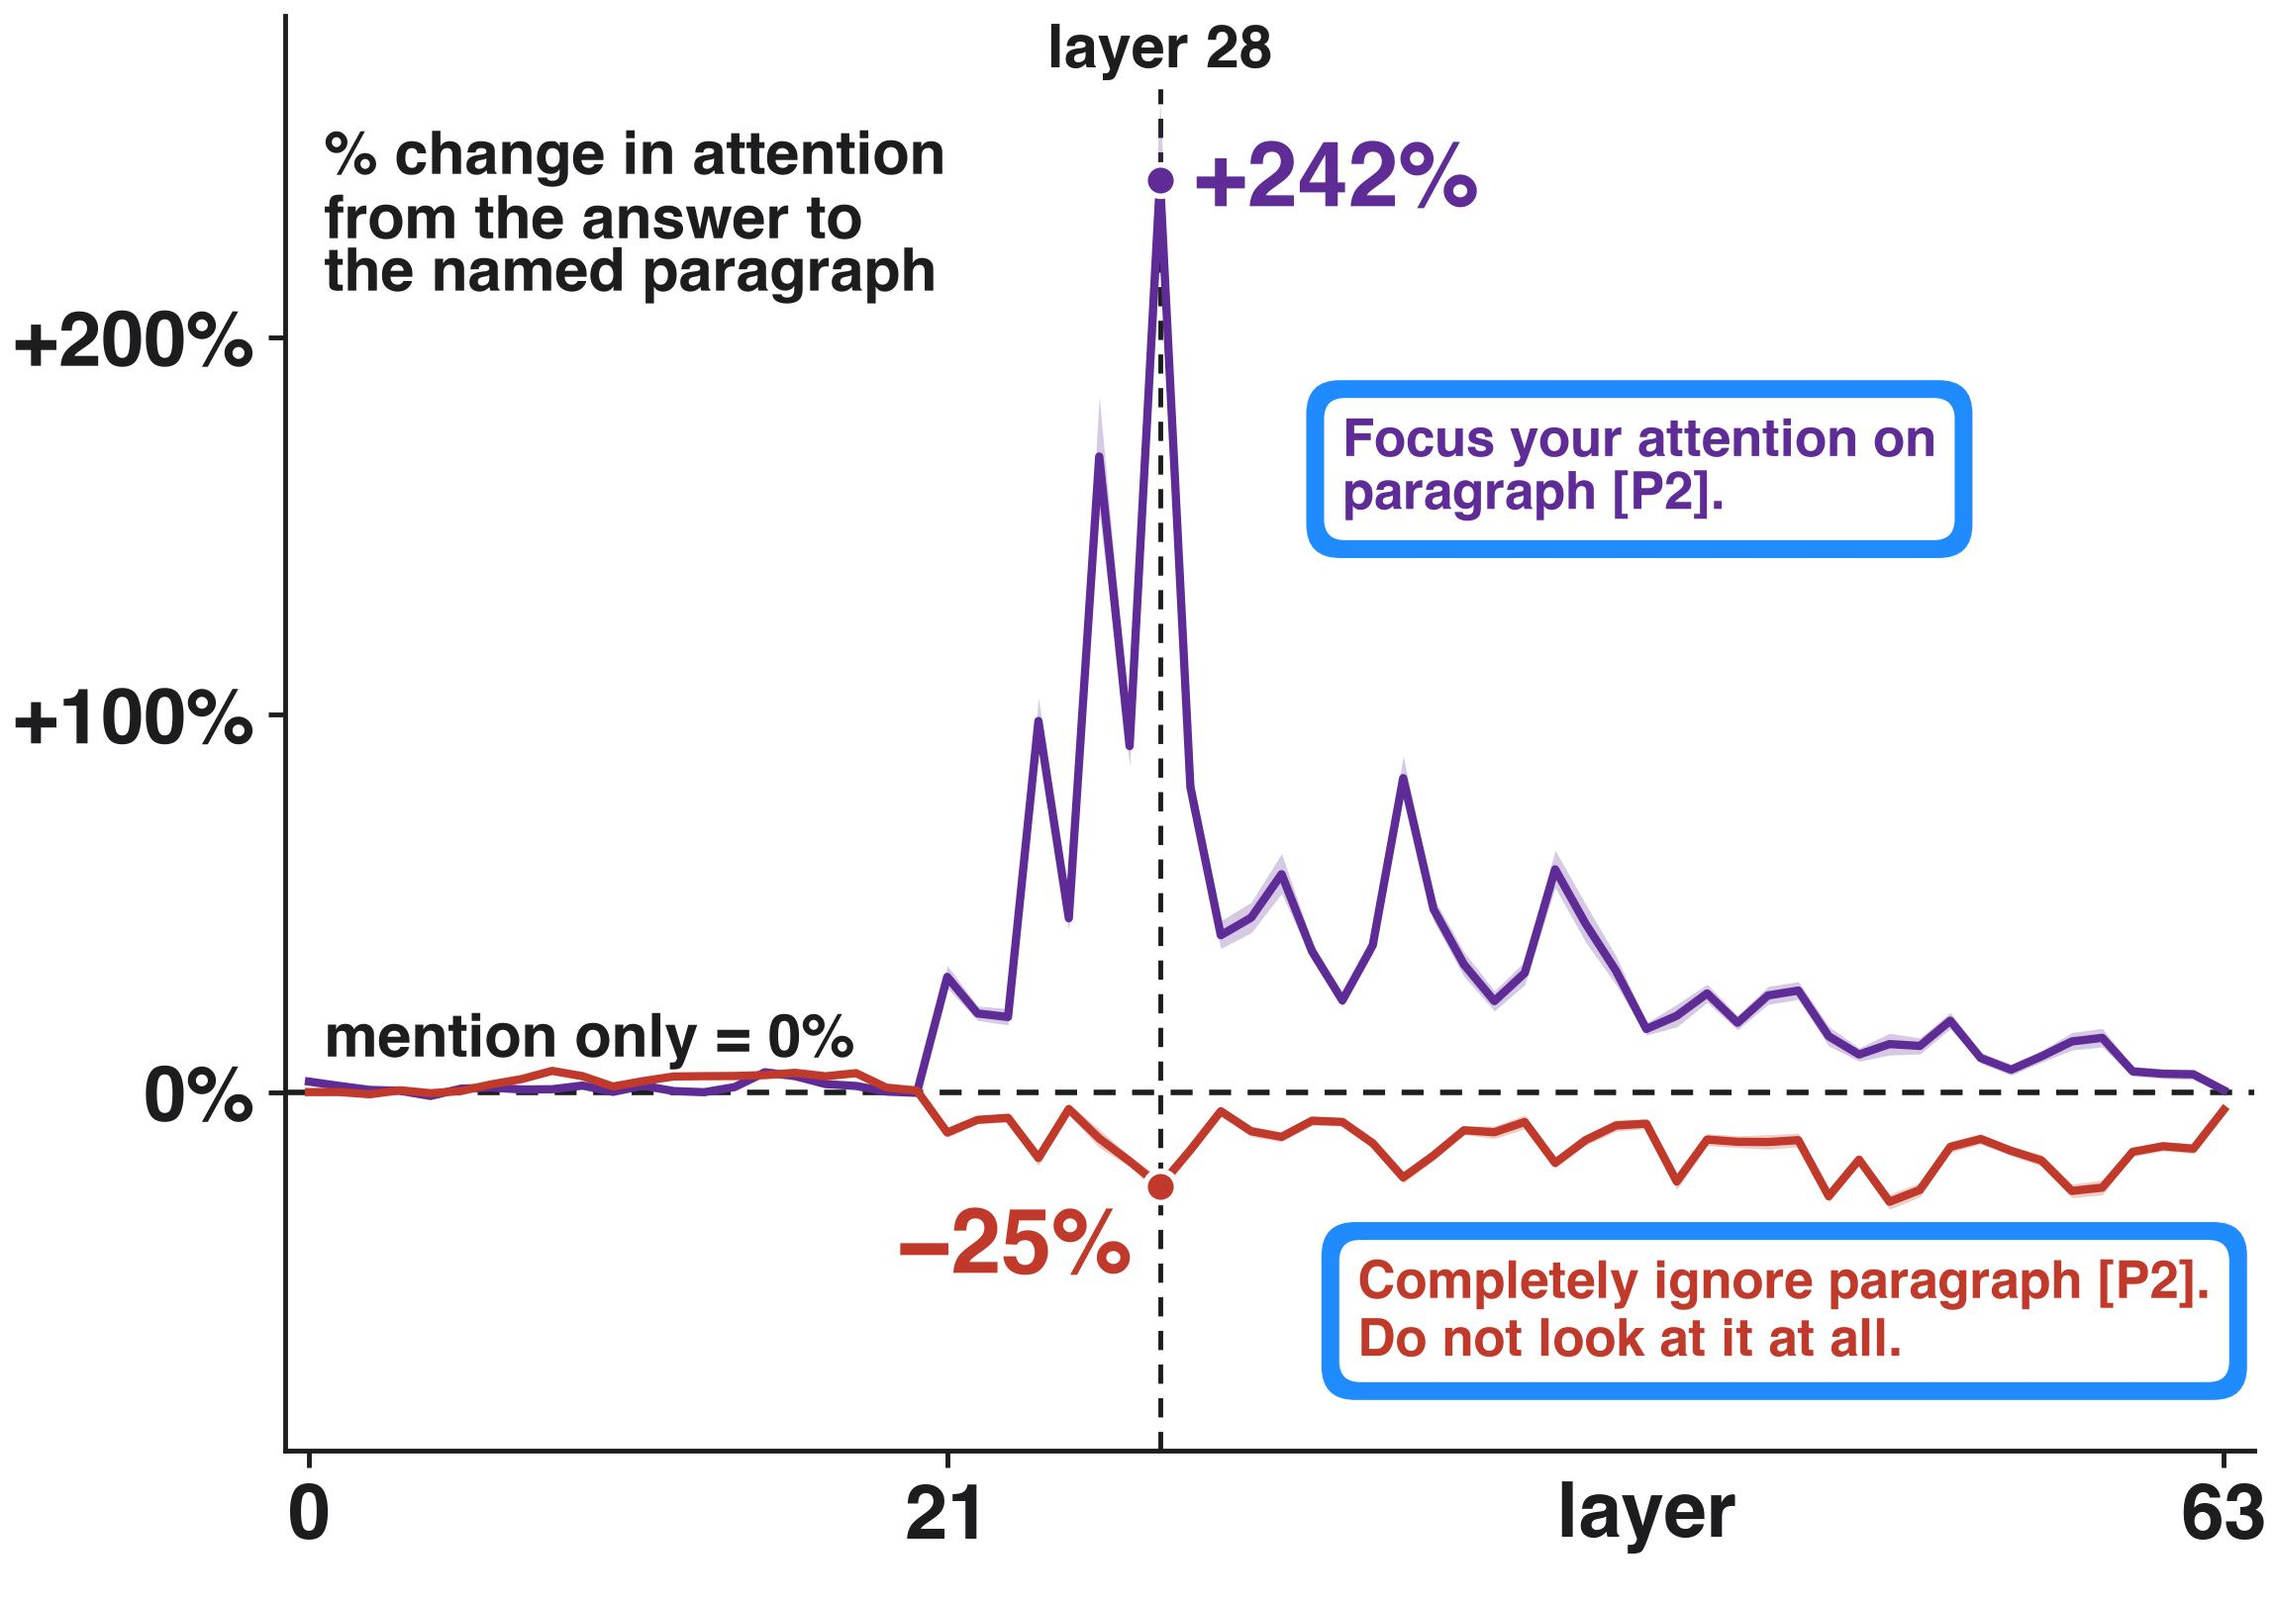
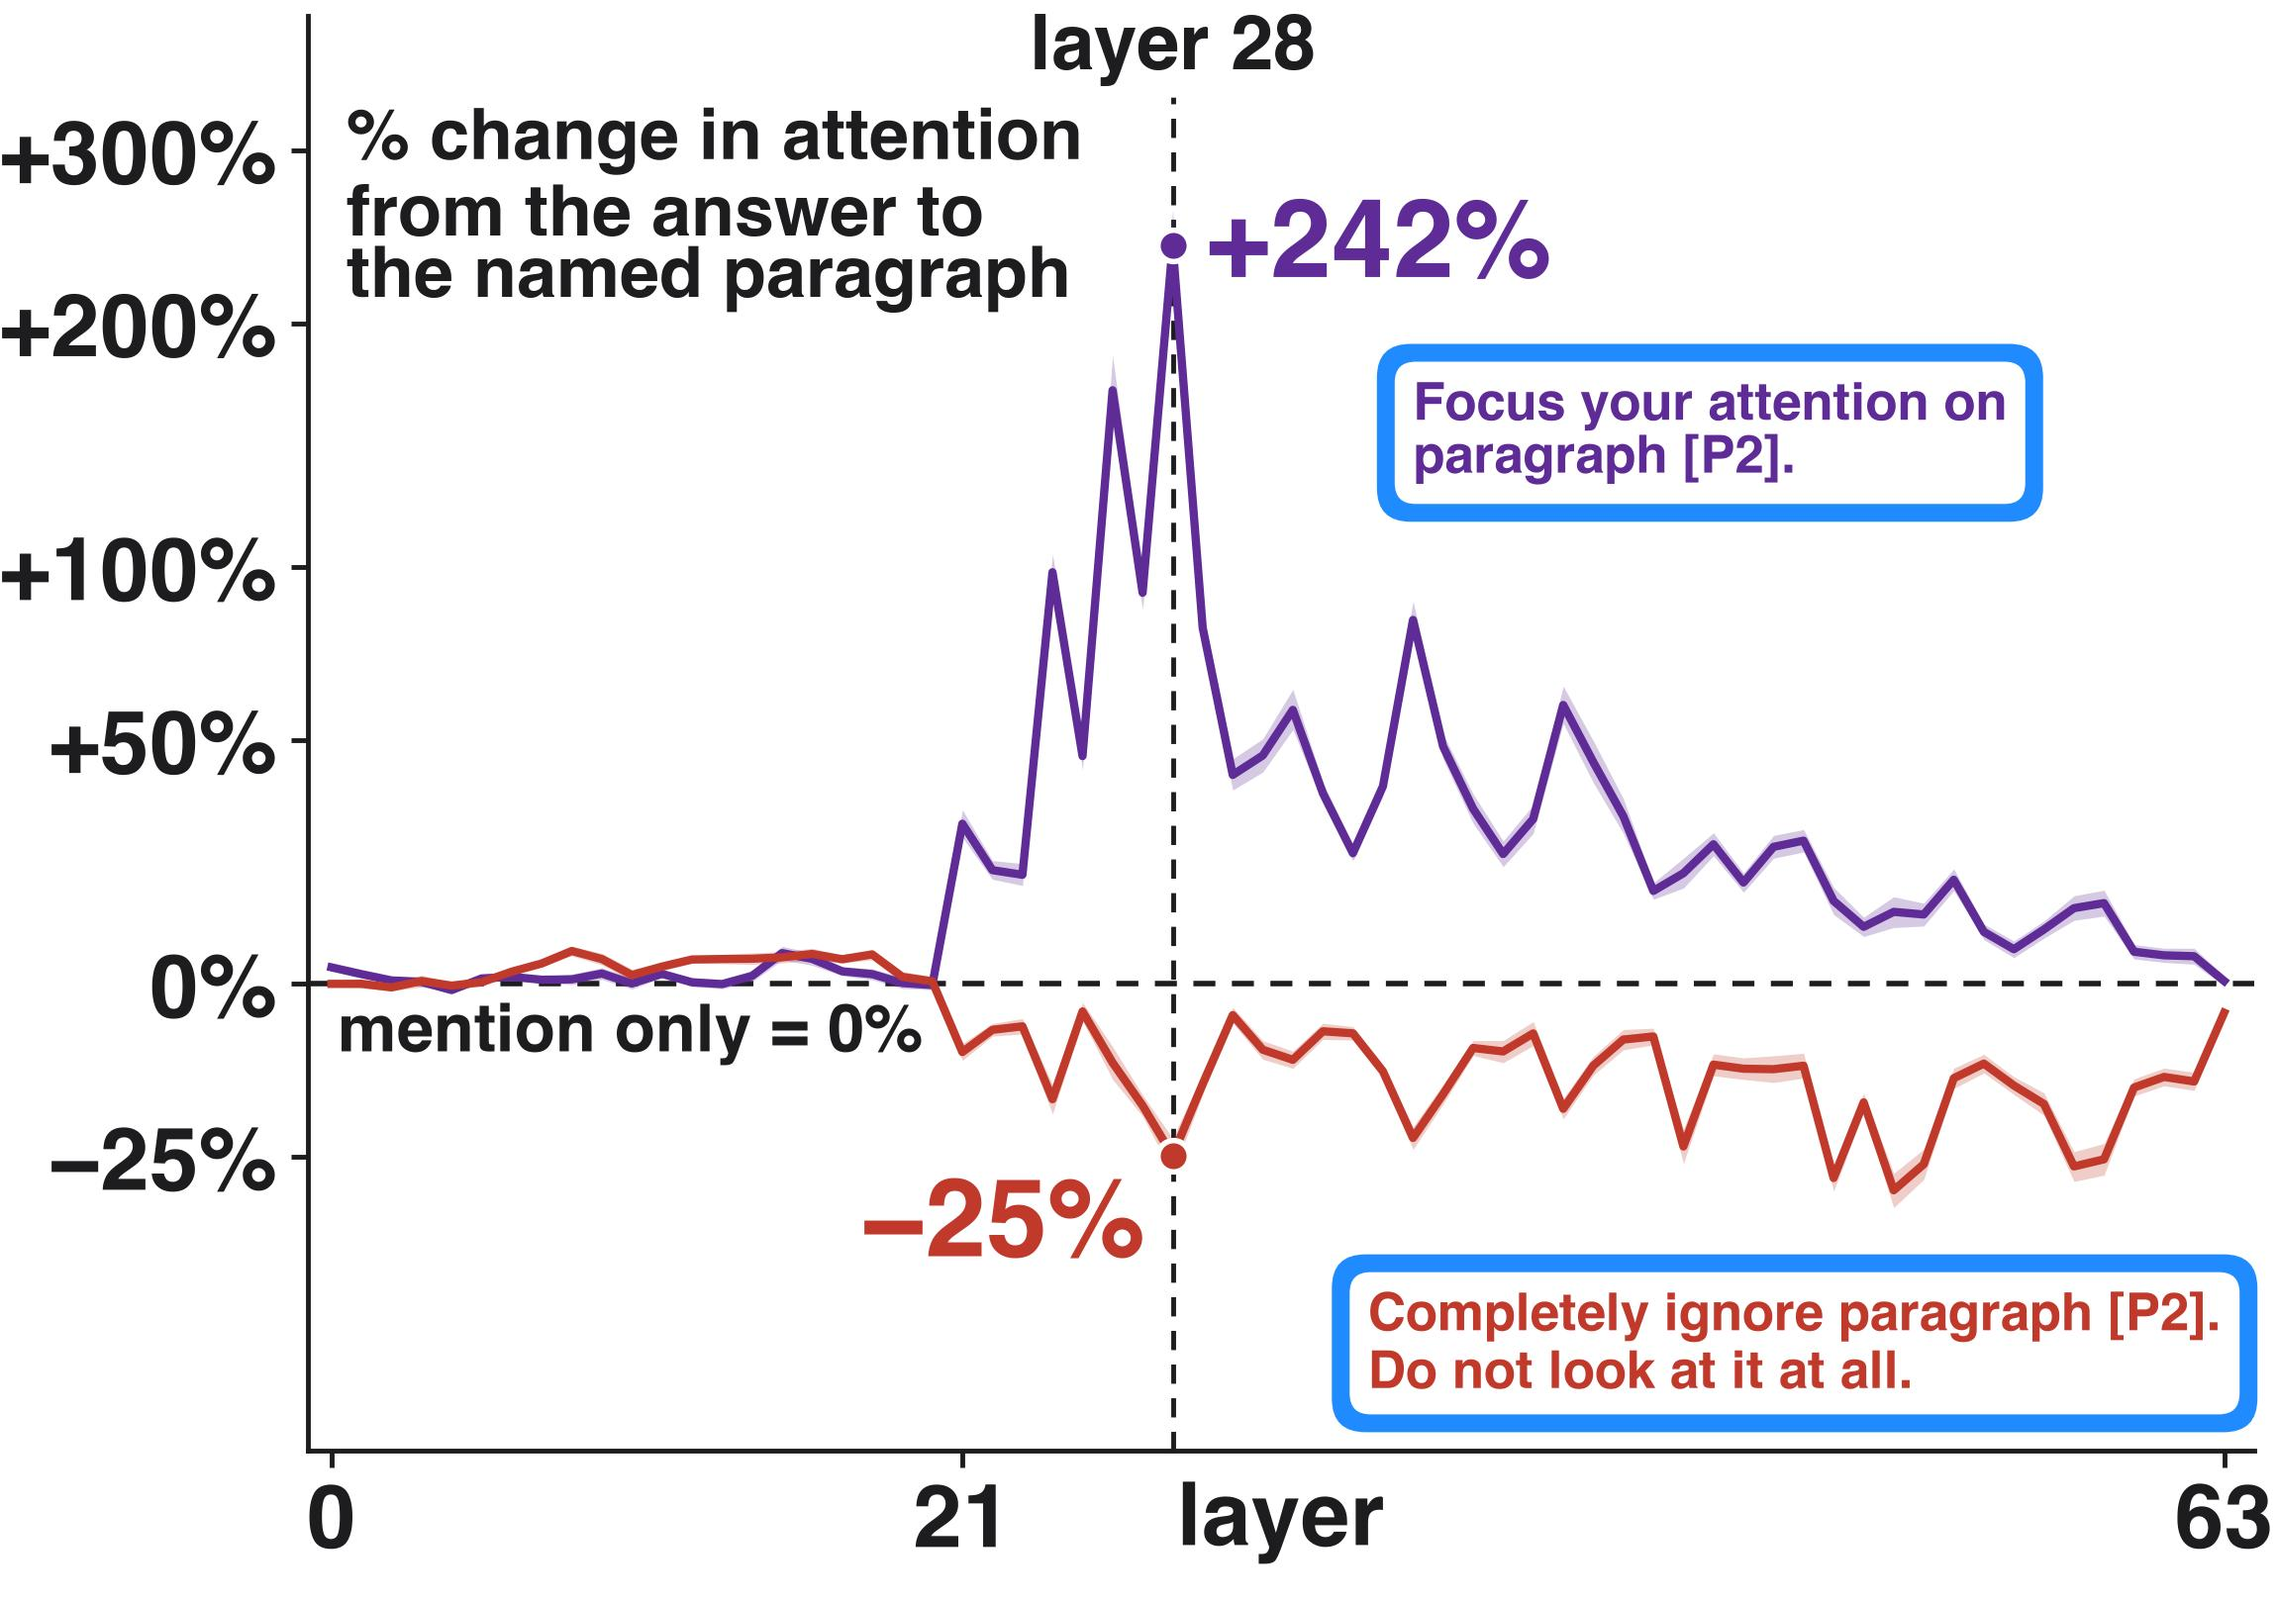
layers: log % axis as in the heroes, bigger ticks and labels, 'layer' centred, no overlaps

diff --git a/figures/layers3.py b/figures/layers3.py
@@ -27,30 +27,31 @@ MN = lambda t: t.replace("-", "\u2212")
 plt.rcParams.update({"font.family": "Helvetica", "text.color": INK, "axes.labelcolor": INK, "xtick.color": INK, "ytick.color": INK, "axes.edgecolor": INK})
 WPX, HPX = 2300, 1620
 fig = plt.figure(figsize=(WPX / 100, HPX / 100))
-a = fig.add_axes([0.125, 0.095, 0.865, 0.895])
+a = fig.add_axes([0.135, 0.095, 0.855, 0.895])
 l = np.arange(NL); L28 = 28
+LG = lambda v: np.log1p(np.asarray(v) / 100)   # log scale with % ticks, as the heroes
 mf = np.array(out["3_focus"]["mean"]); mi = np.array(out["9_completely_ignore"]["mean"])
 a.axvline(L28, color=INK, lw=3.5, ls=(0, (4, 3)), zorder=1)
 a.axhline(0, color=INK, lw=4, ls=(0, (4, 3)), zorder=2)
 for c, col in [("3_focus", PURPLE), ("9_completely_ignore", RED)]:
-    o = out[c]; a.fill_between(l, o["lo"], o["hi"], color=col, alpha=0.25, lw=0, zorder=3)
-    a.plot(l, o["mean"], color=col, lw=6, solid_joinstyle="round", zorder=4)
-    a.scatter([L28], [o["mean"][L28]], s=520, color=col, edgecolors="white", linewidths=4, zorder=6)
-a.text(L28 + 1.1, mf[L28], MN(f"{mf[L28]:+.0f}%"), fontsize=66, fontweight="bold", color=PURPLE, ha="left", va="center", zorder=7)
-a.text(L28 - 0.9, mi[L28] - 5, MN(f"{mi[L28]:+.0f}%"), fontsize=66, fontweight="bold", color=RED, ha="right", va="top", zorder=7)
-a.text(L28, 268, "layer 28", fontsize=44, fontweight="bold", ha="center", va="bottom", zorder=7,
+    o = out[c]; a.fill_between(l, LG(o["lo"]), LG(o["hi"]), color=col, alpha=0.25, lw=0, zorder=3)
+    a.plot(l, LG(o["mean"]), color=col, lw=6, solid_joinstyle="round", zorder=4)
+    a.scatter([L28], [LG(o["mean"][L28])], s=520, color=col, edgecolors="white", linewidths=4, zorder=6)
+a.text(L28 + 1.1, LG(mf[L28]), MN(f"{mf[L28]:+.0f}%"), fontsize=80, fontweight="bold", color=PURPLE, ha="left", va="center", zorder=7)
+a.text(L28 - 0.9, LG(mi[L28]) - 0.03, MN(f"{mi[L28]:+.0f}%"), fontsize=80, fontweight="bold", color=RED, ha="right", va="top", zorder=7)
+a.text(L28, LG(345), "layer 28", fontsize=56, fontweight="bold", ha="center", va="bottom", zorder=7,
        bbox=dict(boxstyle="round,pad=0.15", fc="white", ec="none"))
-a.text(0.5, 6, "mention only = 0%", fontsize=44, fontweight="bold", ha="left", va="bottom", zorder=7)
-a.text(0.5, 255, "% change in attention\nfrom the answer to\nthe named paragraph", fontsize=44, fontweight="bold", ha="left", va="top", linespacing=1.05, zorder=7)
+a.text(0.2, -0.03, "mention only = 0%", fontsize=48, fontweight="bold", ha="left", va="top", zorder=7)
+a.text(0.5, LG(330), "% change in attention\nfrom the answer to\nthe named paragraph", fontsize=52, fontweight="bold", ha="left", va="top", linespacing=1.05, zorder=7)
 for s_ in ["top", "right"]: a.spines[s_].set_visible(False)
 a.spines["left"].set_linewidth(3.5); a.spines["bottom"].set_linewidth(3.5)
-a.tick_params(width=3.5, length=12, labelsize=56, pad=10)
+a.tick_params(width=3.5, length=12, labelsize=64, pad=10)
 a.set_xlim(-0.8, 64); a.set_xticks([0, 21, 63])   # 21: first layer where the instruction moves attention
-yt = [0, 100, 200]; a.set_yticks(yt); a.set_yticklabels([MN(f"{v:+d}%") if v else "0%" for v in yt]); a.set_ylim(-95, 285)
+yt = [-25, 0, 50, 100, 200, 300]; a.set_yticks(LG(yt)); a.set_yticklabels([MN(f"{v:+d}%") if v else "0%" for v in yt]); a.set_ylim(LG(-54), LG(400))
 for t in a.get_xticklabels() + a.get_yticklabels(): t.set_fontweight("bold")
 fig.canvas.draw(); rd = fig.canvas.get_renderer()
 ty = a.get_xticklabels()[0].get_window_extent(rd); tyc = (ty.y0 + ty.y1) / 2 / HPX   # "layer" on the tick-number row, as in the hero
-a.text(a.transData.transform((44, 0))[0] / WPX, tyc, "layer", fontsize=56, fontweight="bold", ha="center", va="center", transform=fig.transFigure)
+a.text(a.transData.transform((31.6, 0))[0] / WPX, tyc, "layer", fontsize=64, fontweight="bold", ha="center", va="center", transform=fig.transFigure)
 
 def bubble(x, y, text, col, ha="left", va="center"):
     """compact chat bubble: the instruction line in a white inner box (coloured text) inside the blue bubble"""
@@ -61,8 +62,8 @@ def bubble(x, y, text, col, ha="left", va="center"):
     a.add_artist(FancyBboxPatch((bb.x0 - p, bb.y0 - p), bb.width + 2 * p, bb.height + 2 * p, transform=IdentityTransform(),
                                 boxstyle="round,pad=0,rounding_size=34", fc="#1F8BFF", ec="none", zorder=8, clip_on=False))
     return t
-bubble(34, 165, LINE["3_focus"].replace(" paragraph", "\nparagraph"), PURPLE)
-bubble(34.5, -58, LINE["9_completely_ignore"].replace(" Do not", "\nDo not"), RED)
+bubble(36, LG(150), LINE["3_focus"].replace(" paragraph", "\nparagraph"), PURPLE)
+bubble(34.5, LG(-45), LINE["9_completely_ignore"].replace(" Do not", "\nDo not"), RED)
 fig.savefig(os.path.join(HERE, "layers.png"), dpi=100, facecolor="white"); fig.savefig(os.path.join(HERE, "layers.jpg"), dpi=100, facecolor="white")
 for c in out: m = np.array(out[c]["mean"]); print(c, "max %+.1f @%d  min %+.1f @%d  band21-53 mean-of-layer-means %+.1f" % (m.max(), m.argmax(), m.min(), m.argmin(), m[21:54].mean()))
 print("focus layers 0-20 range", mf[:21].min(), mf[:21].max()); print("ignore per layer", np.round(mi).astype(int).tolist())
